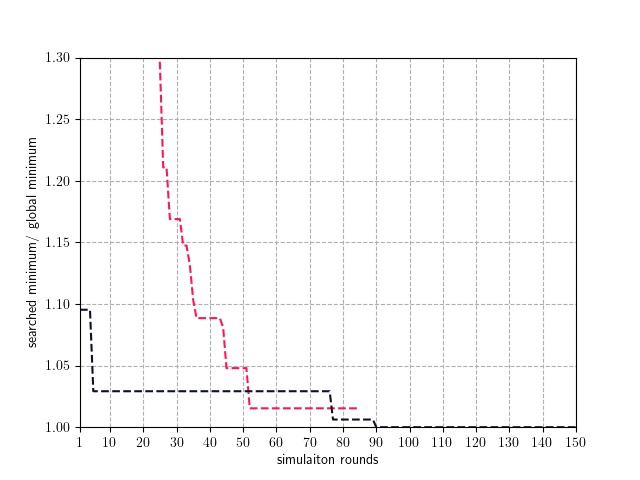
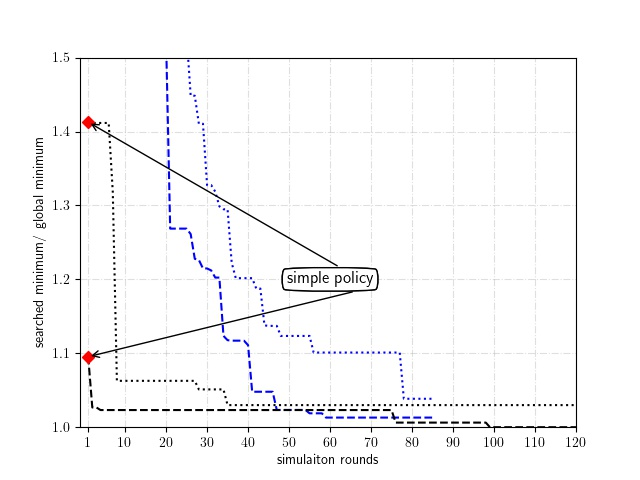
some plot settings

diff --git a/plot_iso_algo.py b/plot_iso_algo.py
@@ -15,9 +15,9 @@ mean_service = 25
 
 ### figure setting
 line_styles_dict = {"FIFO": "solid", "LO-Out": "dashed", "FO-Bus": "dotted"}
-line_colors = ["#ff1654", "#0a1128"]
 
-algo_line_colors_dict = {"Tan": "#ff1654", "CNP": "#0a1128"}
+# algo_line_colors_dict = {"Tan": "#ff1654", "CNP": "#0a1128"}
+algo_line_colors_dict = {"Tan": "blue", "CNP": "black"}
 setno_styles_dict = {0: "solid", 1: "dashed", 2: "dotted"}
 
 
@@ -32,9 +32,9 @@ for queue_rule in ["FIFO", "LO-Out", "FO-Bus"]:
     )
     ### signal setting
     signal_setting = None
-    signal_setting = (120, 0.5, 3)
+    # signal_setting = (120, 0.5, 3)
 
-    for set_no in [1]:
+    for set_no in [1, 2]:
         # line_color = line_colors[set_no]  # one color for one set_no
         ### stop_setting
         stop_setting = (
@@ -61,23 +61,44 @@ for queue_rule in ["FIFO", "LO-Out", "FO-Bus"]:
 
         ### plot
         ax.set_xticks(x_ticks)
-        ax.set_ylim([1, 1.3])
+        ax.set_ylim([1, 1.5])
         # ax.set_xlim([1, x_range])
-        ax.set_xlim([1, 150])
+        ax.set_xlim([-1, 120])
         ax.plot(
             x_tan,
             tan_norm_history_delays,
             color=algo_line_colors_dict["Tan"],
             linestyle=setno_styles_dict[set_no],
+            linewidth=1.5,
         )
         ax.plot(
             x_cnp,
             cnp_norm_history_delays,
             color=algo_line_colors_dict["CNP"],
             linestyle=setno_styles_dict[set_no],
+            linewidth=1.5,
         )
         line_flow, line_service, line_rho = get_generated_line_info(
             berth_num, line_num, total_flow, arrival_type, mean_service, set_no
+        )
+        # annotating simple policy
+        ax.annotate(
+            "simple policy",
+            xy=(1, cnp_norm_history_delays[0]),
+            xytext=(60, 1.2),
+            size=12,
+            va="center",
+            ha="center",
+            bbox=dict(boxstyle="round4", fc="w"),
+            arrowprops=dict(
+                arrowstyle="->",
+                connectionstyle="arc3,rad=0.0",
+                relpos=(1.0, 0.0),
+                fc="w",
+            ),
+        )
+        ax.plot(
+            x_cnp[0], cnp_norm_history_delays[0], "rD",
         )
 
     if signal_setting is not None:

diff --git a/line_profile.py b/line_profile.py
@@ -88,14 +88,14 @@ def generate_and_add_to_db():
     collection = db["line_profile"]
 
     berth_num = 2
-    line_num = 12
-    total_flow = 138
+    line_num = 10
+    total_flow = 135
     arrival_type = "Gaussian"
     mean_service = 25
-    arr_scale = 6  # larger scale, smaller variance of arrival flow mean
-    service_scale = 12  # larger scale, smaller variance of service mean
+    arr_scale = 4  # larger scale, smaller variance of arrival flow mean
+    service_scale = 4  # larger scale, smaller variance of service mean
 
-    for set_no in range(2):
+    for set_no in range(1):
         line_flow, line_service = generate_line_info(
             line_num,
             total_flow,
@@ -109,7 +109,7 @@ def generate_and_add_to_db():
         json_dict = {}
         json_dict["berth_num"] = berth_num
         json_dict["line_num"] = line_num
-        json_dict["set_no"] = set_no
+        json_dict["set_no"] = set_no + 2
         json_dict["total_flow"] = total_flow
         json_dict["arrival_type"] = arrival_type
         json_dict["mean_service"] = mean_service

diff --git a/tan_algo.py b/tan_algo.py
@@ -80,6 +80,11 @@ def apply_tan_algo(algo_setting, stop_setting, signal_setting=None):
                 subset_plans_dict[center].append(plan)
                 break
 
+    # keys = list(subset_plans_dict.keys())
+    # random.shuffle(keys)
+    # shuffled_subset_plans_dict = {key: subset_plans_dict[key] for key in keys}
+    shuffled_subset_plans_dict = subset_plans_dict
+
     # for subset_center, plans in subset_plans_dict.items():
     #     print(subset_center, " : ", len(plans))
 
@@ -88,7 +93,7 @@ def apply_tan_algo(algo_setting, stop_setting, signal_setting=None):
     best_delay_so_far = 1.0e6
     ### get a general view, i.e, sample 5 for each subset
     subset_delay_metric = {}
-    for subset_center, plans in subset_plans_dict.items():
+    for subset_center, plans in shuffled_subset_plans_dict.items():
         # if the set no. is smallert than 5, no need to look at it
         if len(plans) < sample_no:
             continue

diff --git a/algo_main.py b/algo_main.py
@@ -14,17 +14,17 @@ def config():
     # signal_paras = None
     # signal_paras = {"cycle_length": 120, "green_ratio": 0.5, "buffer_size": 3}
 
-    # cycle_length = None
-    # green_ratio = None
-    # buffer_size = None
+    cycle_length = None
+    green_ratio = None
+    buffer_size = None
 
-    cycle_length = 120
-    green_ratio = 0.5
-    buffer_size = 3
+    # cycle_length = 120
+    # green_ratio = 0.5
+    # buffer_size = 3
 
     # algorithm
-    # algorithm = "Tan"
-    algorithm = "CNP"
+    algorithm = "Tan"
+    # algorithm = "CNP"
 
     ### the following two is dynamically changing
     queue_rule = None
@@ -32,6 +32,6 @@ def config():
 
 
 # for set_no in [1]:
-for set_no in [0, 1]:
+for set_no in [1]:
     for queue_rule in ["FIFO", "LO-Out", "FO-Bus"]:
         algo_ex.run(config_updates={"set_no": set_no, "queue_rule": queue_rule})

diff --git a/isolated_scenario.py b/isolated_scenario.py
@@ -11,14 +11,14 @@ def sim_one_isolated_scenario(*args):
     ######## hyper-parameters ########
     max_tolerance_delay = paras.max_tolerance_delay  # seconds
     each_eval_interval = 3600 * 10
-    total_eval_num = 300  # 600
+    total_eval_num = 500  # 600
     epoch_num = each_eval_interval * total_eval_num  # the total number of epochs
 
-    minimum_eval_num = 100  # 150
+    minimum_eval_num = 150  # 150
     minimum_epoch_num = minimum_eval_num * each_eval_interval
     # if the last *std_num* of mean_seq is greater than threshold, return
     std_num = 20  # 20
-    threshold = 0.1
+    threshold = 0.05
 
     ######## simulation ########
     # duration = int(epoch_num / paras.sim_delta)

diff --git a/signal_scenario.py b/signal_scenario.py
@@ -23,15 +23,15 @@ def sim_one_NS_scenario(
     ######## hyper-parameters ########
     max_tolerance_delay = paras.max_tolerance_delay  # seconds
     each_eval_interval = 3600 * 10
-    total_eval_num = 300  # 600
+    total_eval_num = 500  # 600
     epoch_num = total_eval_num * each_eval_interval  # the total number of epochs
 
-    minimum_eval_num = 100  # 150
+    minimum_eval_num = 150  # 150
     minimum_epoch_num = minimum_eval_num * each_eval_interval
     std_num = (
         20  # 20 # if the last *std_num* of mean_seq is greater than threshold, return
     )
-    threshold = 0.1
+    threshold = 0.05
 
     ######## simulation ########
     duration = int(epoch_num * paras.sim_delta)

diff --git a/signal_main.py b/signal_main.py
@@ -12,14 +12,14 @@ def config():
     # queue_rule = "LO-Out"
     queue_rule = "FO-Bus"
     berth_num = 2
-    line_num = 12
-    total_flow = 138  # buses/hr
+    line_num = 10
+    total_flow = 135  # buses/hr
     arrival_type = "Gaussian"
     mean_service = 25  # seconds
     cycle_length = 120
     green_ratio = 0.5
     buffer_size = 3
-    set_no = 0  # which set of input profile in the database
+    set_no = 2  # which set of input profile in the database
 
 
 def run(assign_plan_str):

diff --git a/algo_experiment.py b/algo_experiment.py
@@ -57,7 +57,7 @@ def main(
     else:
         for sim_budget in [200]:
             for max_depth in [5]:
-                for sample_num_of_each_region in [8]:
+                for sample_num_of_each_region in [5]:
                     algo_ex.info["sim_budget"] = sim_budget
                     algo_ex.info["max_depth"] = max_depth
                     algo_ex.info[

diff --git a/isolated_main.py b/isolated_main.py
@@ -12,11 +12,11 @@ def config():
     # queue_rule = "LO-Out"
     queue_rule = "FO-Bus"
     berth_num = 2
-    line_num = 12
-    total_flow = 138  # buses/hr
+    line_num = 10
+    total_flow = 135  # buses/hr
     arrival_type = "Gaussian"
     mean_service = 25  # seconds
-    set_no = 0
+    set_no = 2
 
 
 def run(assign_plan_str):

diff --git a/arena.py b/arena.py
@@ -263,7 +263,7 @@ def get_case_df_from_db(stop_setting, signal_setting, algorithm):
 
     if algorithm == "CNP":
         appended_query_str = "and max_depth=={} and sample_num_of_each_region=={}".format(
-            4, 6
+            5, 5
         )
         query = query + appended_query_str
 

diff --git a/plot_settings.py b/plot_settings.py
@@ -8,7 +8,7 @@ def get_curve_plot(x_label, y_label):
     fig, ax = plt.subplots()
     ax.set_xlabel(x_label)
     ax.set_ylabel(y_label)
-    ax.grid(linestyle="dashed")
+    ax.grid(linestyle="-.", alpha=0.4)
 
     return fig, ax
 
